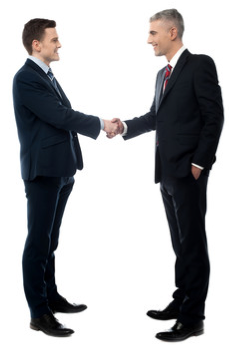
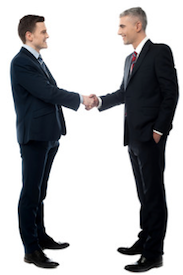
played with image sizes and CSS grid to display pictures 2 x 2 grid

diff --git a/src/components/Questions.js b/src/components/Questions.js
@@ -26,10 +26,10 @@ addOneToQuestion = () => {
         return (
         <div className="App">
         <section className="img-fluid">
-            <img onClick={this.addOneToQuestion} className="image" src={`./images/Question-${this.state.currentQuestion}/Picture1Question${this.state.currentQuestion}.png`} alt="P1Q1" height="275" width="275"/>
-            <img onClick={this.addOneToQuestion} className="image" src={`./images/Question-${this.state.currentQuestion}/Picture2Question${this.state.currentQuestion}.png`} alt="P1Q1" height="275" width="275"/>
-            <img onClick={this.addOneToQuestion} className="image" src={`./images/Question-${this.state.currentQuestion}/Picture3Question${this.state.currentQuestion}.png`} alt="P1Q1" height="275" width="275"/>
-            <img onClick={this.addOneToQuestion} className="image" src={`./images/Question-${this.state.currentQuestion}/Picture4Question${this.state.currentQuestion}.png`} alt="P1Q1" height="275" width="275"/>
+            <img onClick={this.addOneToQuestion} className="image" src={`./images/Question-${this.state.currentQuestion}/Picture1Question${this.state.currentQuestion}.png`} alt="P1Q1" height="300" width="300"/>
+            <img onClick={this.addOneToQuestion} className="image" src={`./images/Question-${this.state.currentQuestion}/Picture2Question${this.state.currentQuestion}.png`} alt="P1Q1" height="300" width="300"/>
+            <img onClick={this.addOneToQuestion} className="image" src={`./images/Question-${this.state.currentQuestion}/Picture3Question${this.state.currentQuestion}.png`} alt="P1Q1" height="300" width="300"/>
+            <img onClick={this.addOneToQuestion} className="image" src={`./images/Question-${this.state.currentQuestion}/Picture4Question${this.state.currentQuestion}.png`} alt="P1Q1" height="300" width="300"/>
         </section>
         <section>
             <footer className="footer">

diff --git a/src/App.css b/src/App.css
@@ -12,7 +12,7 @@
 
 .test-image {
   width: 50%;
-  im: center;
+  image-orientation: center;
 
 }
 
@@ -40,6 +40,10 @@
 }
 
 .img-fluid {
+  /* display: grid; */
+  /* justify-content: space-around; */
+  /* grid-template-columns: 5% 40% 15% 40% 5%; */
+  /* grid-template-rows: 5% 30% 5% 30%; */
   display: flex;
   justify-content: space-around;
   flex-wrap: wrap;
@@ -48,6 +52,7 @@
 }
 
 .image {
+  /* grid-column-start: 2; */
   margin: 1em;
   border: #2f4858 solid 5px;
 }
